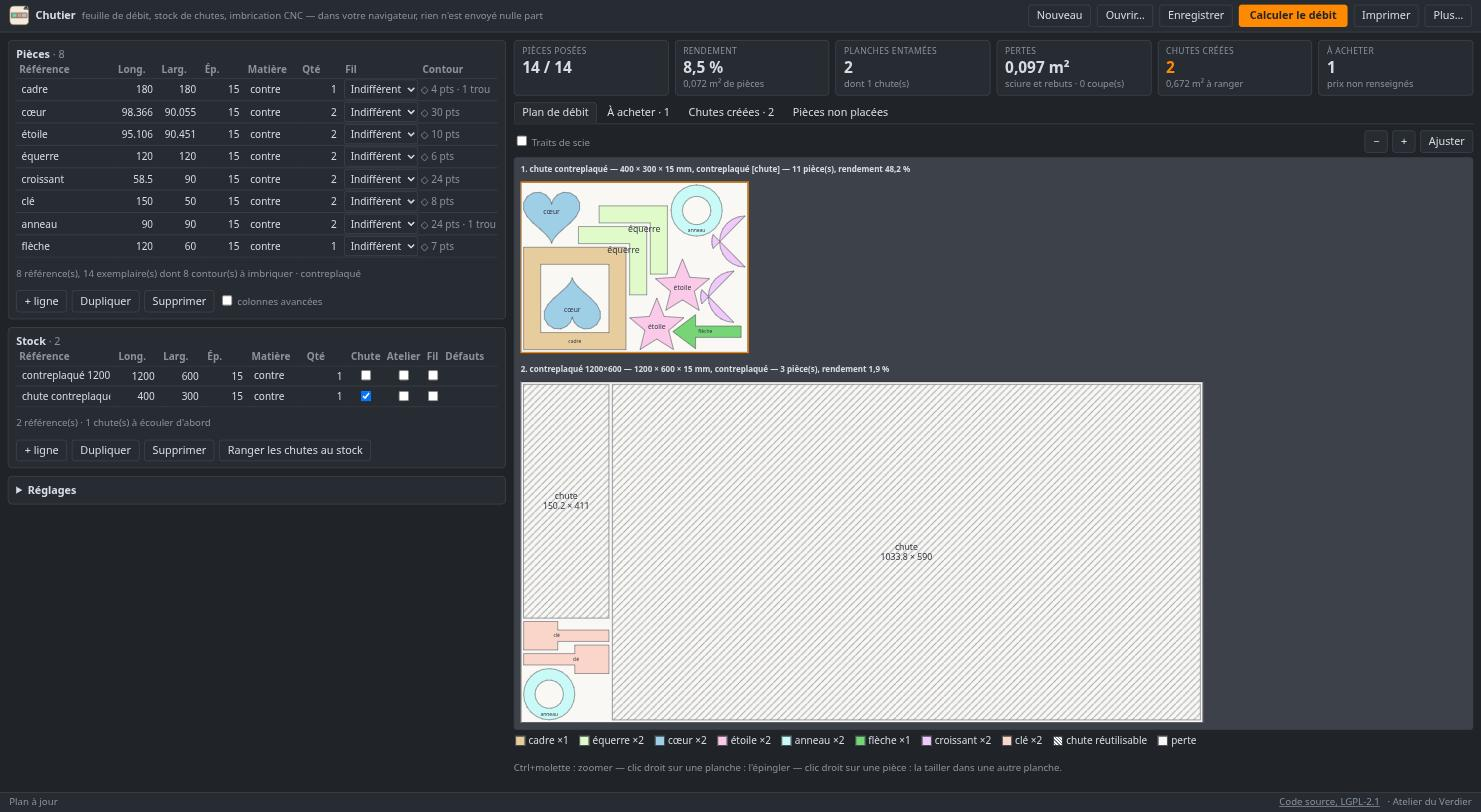
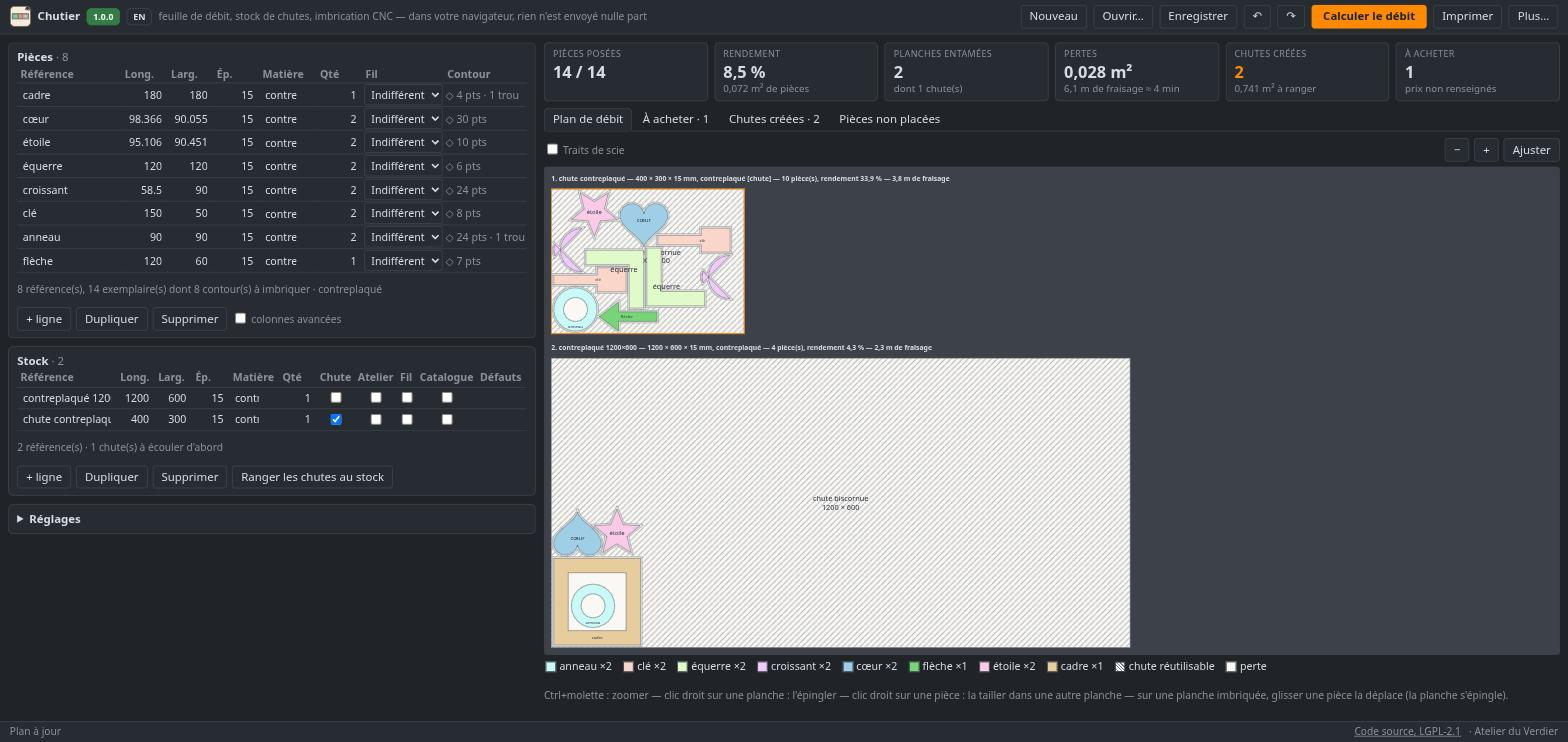
Chutier : chutes biscornues, coupe en bandes, import FreeCAD, page bilingue
La page du chutier suit le programme : ce qui reste d'une planche
imbriquée garde sa forme et retourne au stock, la case coupe en bandes
pour une scie à panneaux, l'import depuis le tableur d'un document
FreeCAD, le glisser d'une pièce sur le plan, et côté navigateur le
hors-ligne, la pastille de version et la bascule EN / FR. Deux points de
« ce que le chutier ne fait pas » sont tombés, deux autres les
remplacent.

Captures refaites — capturer_chutier.py calculait dans un fil et
grabbait avant la fin : chutier-formes.png montrait le plan de l'exemple
précédent sous la table des formes.

Claude-Session: https://claude.ai/code/session_016GYtChadZeJxywBwyu5Mk7

diff --git a/site/contenu/chutier.html b/site/contenu/chutier.html
@@ -44,6 +44,7 @@
           </a>
           <a class="btn btn-ghost" href="#voir">Ce qu'on voit</a>
           <a class="btn btn-ghost" href="#cnc">La CNC</a>
+          <a class="btn btn-ghost" href="#freecad">Depuis FreeCAD</a>
           <a class="btn btn-ghost" href="#capot">Sous le capot</a>
         </div>
       </div>
@@ -209,6 +210,23 @@
   </div>
 </section>
 
+<section id="bandes">
+  <div class="wrap">
+    <div class="sec-tag">La scie qu'on a</div>
+    <h2>Une scie à panneaux ne coupe pas n'importe où</h2>
+    <p class="sec-lede">
+      Elle déligne le panneau en bandes pleine longueur, puis tronçonne chaque
+      bande. Un plan guillotine libre, elle l'exécute mal.
+    </p>
+    <p>
+      La case <b>coupe en bandes</b> restreint le solveur à ces coupes en deux
+      étapes : une recoupe de largeur dans la bande à la rigueur, jamais une
+      recoupe de longueur. Ça coûte en général un peu de bois — et fait gagner
+      le temps qu'on aurait passé à se battre avec la machine.
+    </p>
+  </div>
+</section>
+
 <section id="etabli">
   <div class="wrap">
     <div class="sec-tag">À l'établi</div>
@@ -248,6 +266,29 @@
         se grossissent maintenant à proportion de la résolution demandée.
       </p>
     </div>
+  </div>
+</section>
+
+<section id="freecad">
+  <div class="wrap">
+    <div class="sec-tag">Depuis le dessin</div>
+    <h2>La feuille de débit sort du modèle</h2>
+    <p class="sec-lede">
+      Un projet dessiné dans FreeCAD porte déjà ses cotes dans un tableur.
+      Les retaper à la main, c'est se donner l'occasion de se tromper.
+    </p>
+    <p>
+      Fichier → <b>Importer des pièces (FreeCAD .FCStd)</b> lit la feuille de
+      calcul <i>dans le document</i>, sans lancer FreeCAD. Il y faut une ligne
+      d'en-tête (Rep. ou Désignation, Longueur, Largeur, et à volonté Qté,
+      Épaisseur, Matière, Fil), une pièce par ligne dessous ; les titres de
+      section sont sautés. Les <b>formules sont calculées</b> — alias,
+      références d'une feuille à l'autre comme
+      <code>Parametres.HautVantail</code>, unités, <code>round</code> — parce
+      qu'une feuille de débit réelle n'est faite que de cela. Ce que
+      l'évaluateur ne sait pas, il le refuse <b>en nommant la cellule</b> :
+      un nombre faux dans un débit se paye en bois.
+    </p>
   </div>
 </section>
 
@@ -308,15 +349,16 @@
 
     <figure class="capture">
       <img src="{{RACINE}}logiciels/captures/chutier-formes.webp"
-           alt="Une chute de contreplaqué de 400 × 300 vue seule : un cadre évidé avec un cœur posé dans son trou, deux équerres emboîtées, deux anneaux, deux étoiles, une flèche, un second cœur — dix pièces imbriquées"
+           alt="Une chute de contreplaqué de 400 × 300 vue seule : deux étoiles, un cœur, deux clés, une flèche, une équerre, un anneau et deux croissants imbriqués, chacun serré contre ses voisins"
            data-agrandir>
       <figcaption>
         L'exemple des formes biscornues, sur la chute de 400 × 300 que le
-        programme entame avant le panneau neuf : un cadre évidé qui reçoit un
-        <b>cœur dans son trou</b>, deux équerres emboîtées, des anneaux, des
-        étoiles, une flèche. Dix pièces sur une chute, rendement 49,6 % — et
-        les quatre restantes sur un coin du panneau, qui garde deux grandes
-        chutes rectangulaires.
+        programme entame avant le panneau neuf : deux étoiles emboîtées dans
+        les creux d'un cœur, des croissants glissés entre une flèche et une
+        équerre. Dix pièces sur une chute, <b>3,7 m de fraisage</b>, et les
+        quatre autres sur le panneau — dont un cadre évidé qui reçoit un
+        <b>cœur dans son trou</b>. Le tout laisse 0,028 m² de perte : le reste
+        du panneau part au stock en chute biscornue.
       </figcaption>
     </figure>
 
@@ -328,6 +370,24 @@
       chutes et les mêmes défauts. Fichier → <b>Exporter la découpe</b> rend
       chaque planche à l'échelle 1 en <b>SVG</b>, en <b>DXF</b> pour la
       fraiseuse ou en projet <b>LightBurn</b> pour le laser.
+    </p>
+
+    <p>
+      Ce qui reste de la planche <b>garde sa forme</b> : le panneau moins les
+      pièces élargies du passage de la fraise, morceau par morceau. Un
+      morceau rectangulaire redevient un rectangle qu'une scie saura
+      reprendre ; les autres sont des <b>chutes biscornues</b>, rangées au
+      stock avec leur polygone et leurs trous. Au débit suivant, on imbrique
+      dedans — dans le bois, pas dans sa boîte. Le cartouche de chaque
+      planche imbriquée annonce sa <b>longueur de fraisage</b>, et le bilan
+      le temps que cela demande à l'avance réglée.
+    </p>
+
+    <p>
+      Un plan ne se subit pas : sur une planche imbriquée, <b>glisser une
+      pièce à la souris</b> la déplace. Le programme vérifie qu'elle reste
+      dans le bois et à l'écart des autres, refait les chutes, et épingle la
+      planche — sinon le calcul suivant déferait le geste.
     </p>
 
     <details class="pliable">
@@ -378,7 +438,7 @@
 
     <figure class="capture">
       <img src="{{RACINE}}logiciels/captures/chutier-web.webp"
-           alt="La version web du chutier dans Chrome, thème sombre : les tables de pièces et de stock à gauche, les tuiles de bilan et le plan des formes imbriquées à droite"
+           alt="La version web du chutier dans Chrome, thème sombre : la pastille de version et le bouton EN dans la barre du haut, les tables de pièces et de stock à gauche, les tuiles de bilan et le plan des formes imbriquées à droite, dont une chute biscornue de 1200 × 600"
            data-agrandir>
       <figcaption>
         <a href="https://atelierduverdier.github.io/chutier/">atelierduverdier.github.io/chutier</a>
@@ -398,6 +458,17 @@
       à trous ; un découpage en oreilles en Python pur, vérifié contre la
       triangulation en C du bureau, prend le relais. Pas de multicœur ni
       d'étiquettes imprimées dans cette version : pour ces deux-là, le bureau.
+    </p>
+
+    <p>
+      La page s'<b>installe</b> et fonctionne <b>hors-ligne</b> après une
+      première visite, Python compris. Une <b>pastille de version</b> près du
+      titre dit si c'est bien la dernière : verte à jour, orange avec ⟳ quand
+      une plus récente est en ligne — la toucher recharge tout ; hors-ligne
+      elle reste neutre, elle ne peut pas savoir. Un bouton
+      <b>EN / FR</b> bascule toute l'interface : le dictionnaire a pour clé
+      le texte français, et un contrôle refuse qu'une phrase reste sans
+      traduction. L'application de bureau, elle, reste en français.
     </p>
   </div>
 </section>
@@ -552,14 +623,13 @@
       <li>À la scie, les coupes sont <b>guillotine</b>, de bord à bord. C'est
       un choix, pas une limite technique : un plan qu'on ne peut pas exécuter
       ne vaut rien. L'imbrication libre existe, mais pour la fraise.</li>
-      <li>Pas encore d'import direct depuis la feuille de calcul FreeCAD d'un
-      projet. Le CSV fait le lien en attendant, dans les deux sens.</li>
-      <li>Ce qui reste d'une planche imbriquée n'est compté chute que pour ses
-      deux bandes rectangulaires, à droite et au-dessus des pièces : le
-      chutier range des rectangles. Le reste, biscornu, est compté perte même
-      s'il en reste des morceaux.</li>
       <li>Le nœud qu'on déclare est un rectangle, pas une tache : c'est à
       l'œil de le mesurer large.</li>
+      <li>Le temps de fraisage annoncé est celui de la coupe seule : la
+      longueur des contours divisée par l'avance réglée. Les déplacements à
+      vide entre deux pièces n'y sont pas.</li>
+      <li>Dans le navigateur, le calcul n'a qu'un cœur — le bureau les prend
+      tous. Les étiquettes imprimées restent au bureau elles aussi.</li>
     </ul>
 
     <div class="callout note">

diff --git a/site/outils/capturer_chutier.py b/site/outils/capturer_chutier.py
@@ -65,6 +65,9 @@ def main() -> None:
     jetable = tempfile.mkdtemp(prefix='chutier-captures-')
     os.environ['XDG_CONFIG_HOME'] = jetable
     os.environ['CHUTIER_ATELIER'] = os.path.join(jetable, 'atelier.json')
+    # Pas de pastille verte ou orange au hasard du réseau sur une capture
+    # publiée : elle changerait d'un tirage à l'autre.
+    os.environ['CHUTIER_SANS_RESEAU'] = '1'
     sys.path.insert(0, str(PROJET))
 
     from PySide6.QtCore import Qt
@@ -72,6 +75,13 @@ def main() -> None:
     from PySide6.QtWidgets import QApplication
 
     import interface
+
+    # Le calcul dans un fil ne rend pas la main avant le grab : la capture
+    # montrait alors le plan de l'exemple PRÉCÉDENT sous la saisie du
+    # nouveau (vu le 04/09/2026 sur chutier-formes.png, un débit de sapin
+    # sous une table de formes biscornues). En synchrone, chaque
+    # `_calculer()` est fini quand il rend la main.
+    interface.SYNCHRONE = True
 
     app = QApplication(sys.argv)
     fenetre = interface.FenetrePrincipale()
@@ -118,6 +128,7 @@ def main() -> None:
     fenetre._chemin = None
     fenetre._modifie = False
     fenetre._charger_exemple()
+    fenetre._calculer()
     # Douze colonnes de stock : on donne sa place à la saisie pour cette
     # image-là, c'est elle qu'on vient y lire.
     fenetre._splitter.setSizes([760, FENETRE[0] - 760])
@@ -130,6 +141,7 @@ def main() -> None:
     #    tenait dans un timbre-poste.
     fenetre._modifie = False
     fenetre._charger_exemple_formes()
+    fenetre._calculer()
     fenetre._splitter.setSizes([560, FENETRE[0] - 560])
     fenetre.choix_vue.setCurrentIndex(1)
     fenetre.liste_planches.setCurrentRow(0)
